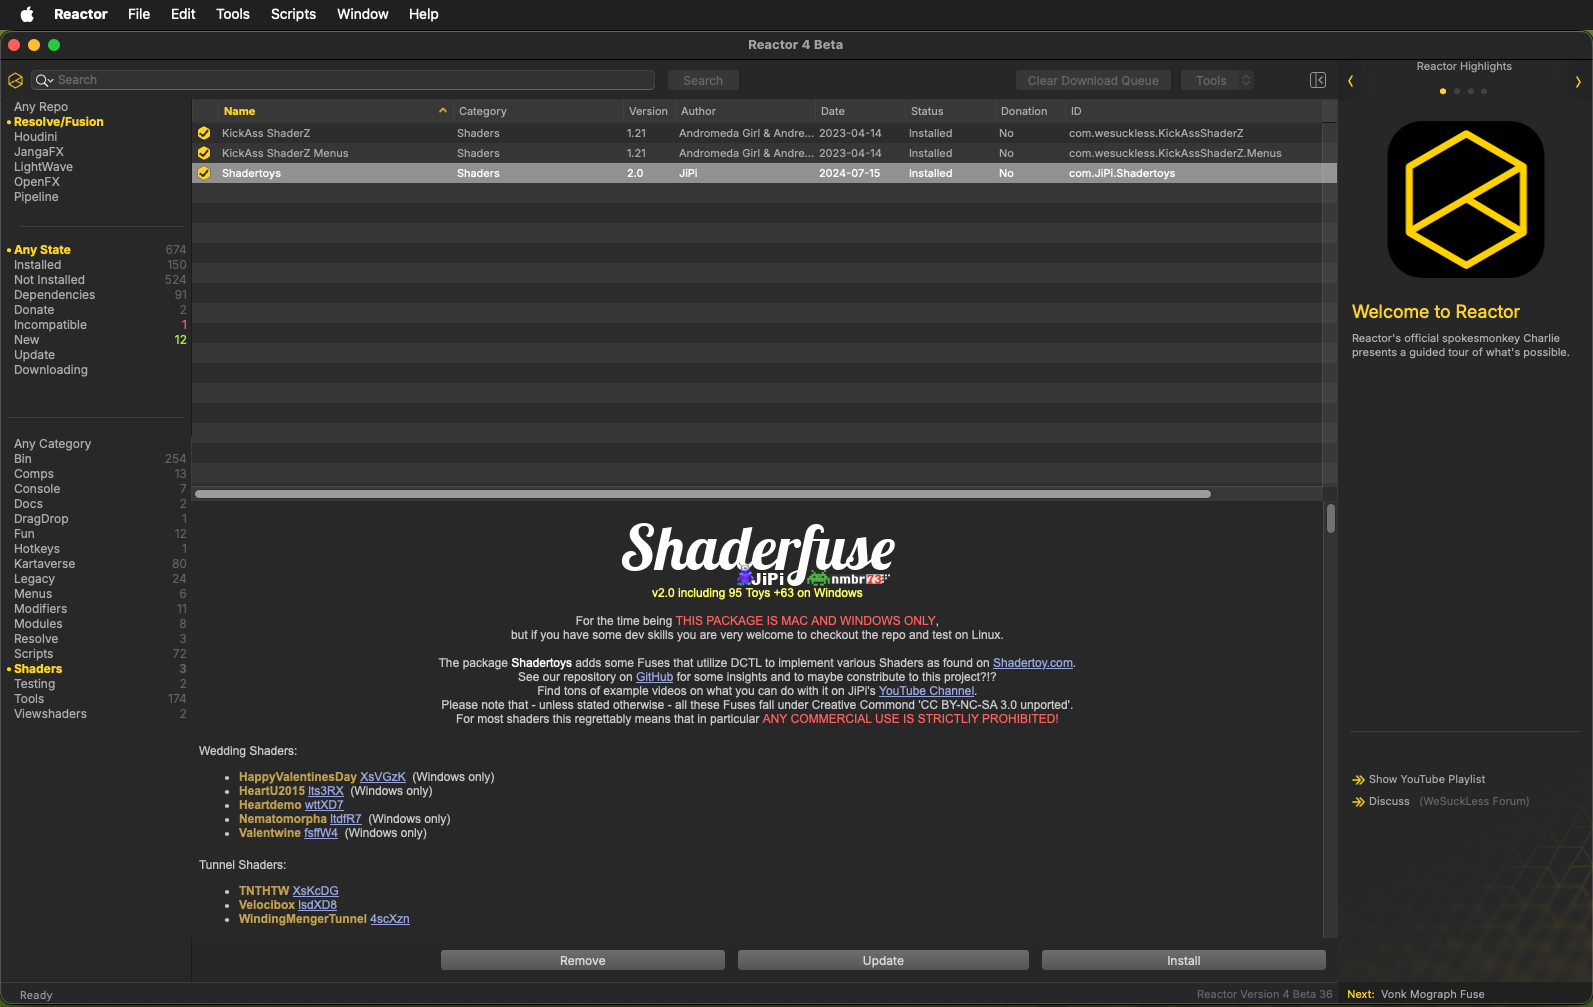
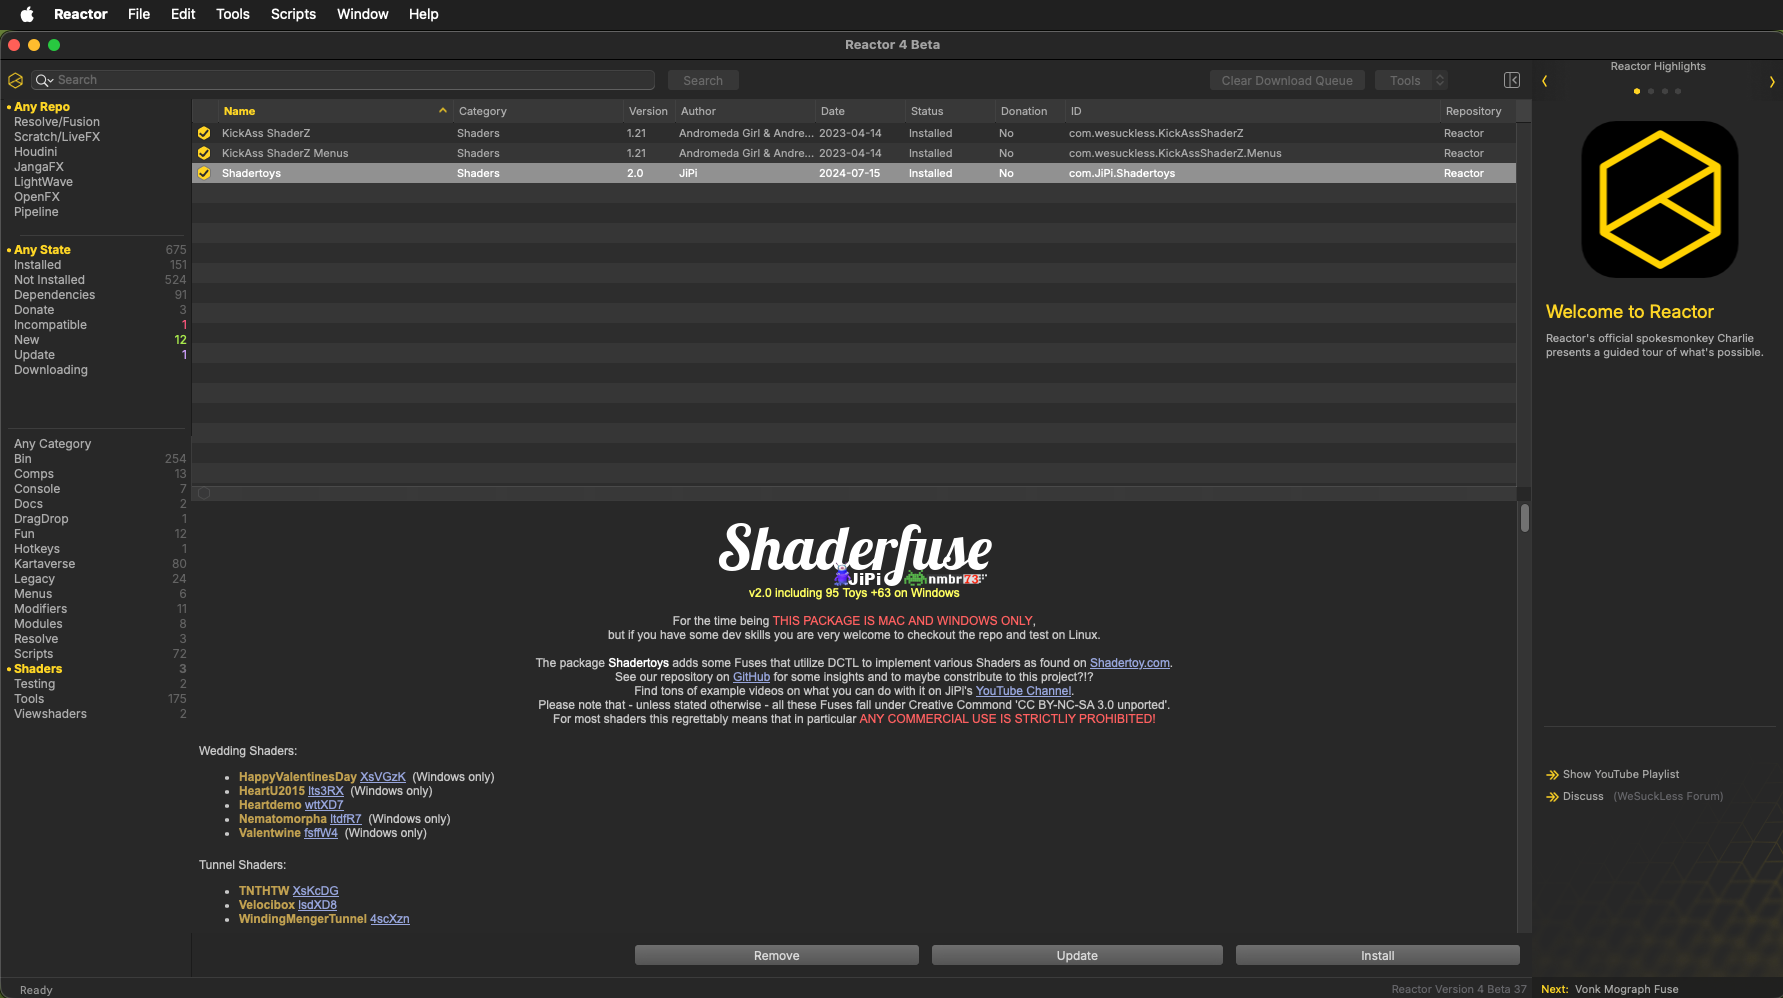
Beta 37

diff --git a/Install.md b/Install.md
@@ -14,9 +14,9 @@ Note: Click on the "Assets" section for the GitHub release to expand the file do
 
 The Assets downloads are separate files per-operating system.  The zip archives have filenames that look roughly like this:
 
-- reactor-for-linux-x64-v4-beta-33.zip
-- reactor-for-mac-universal-v4-beta-33.zip
-- reactor-for-win-x64-v4-beta-33.zip
+- reactor-for-linux-x64-v4-beta-37.zip
+- reactor-for-mac-universal-v4-beta-37.zip
+- reactor-for-win-x64-v4-beta-37.zip
 
 Note: The version number at the end of the filenames will change over time.
 
